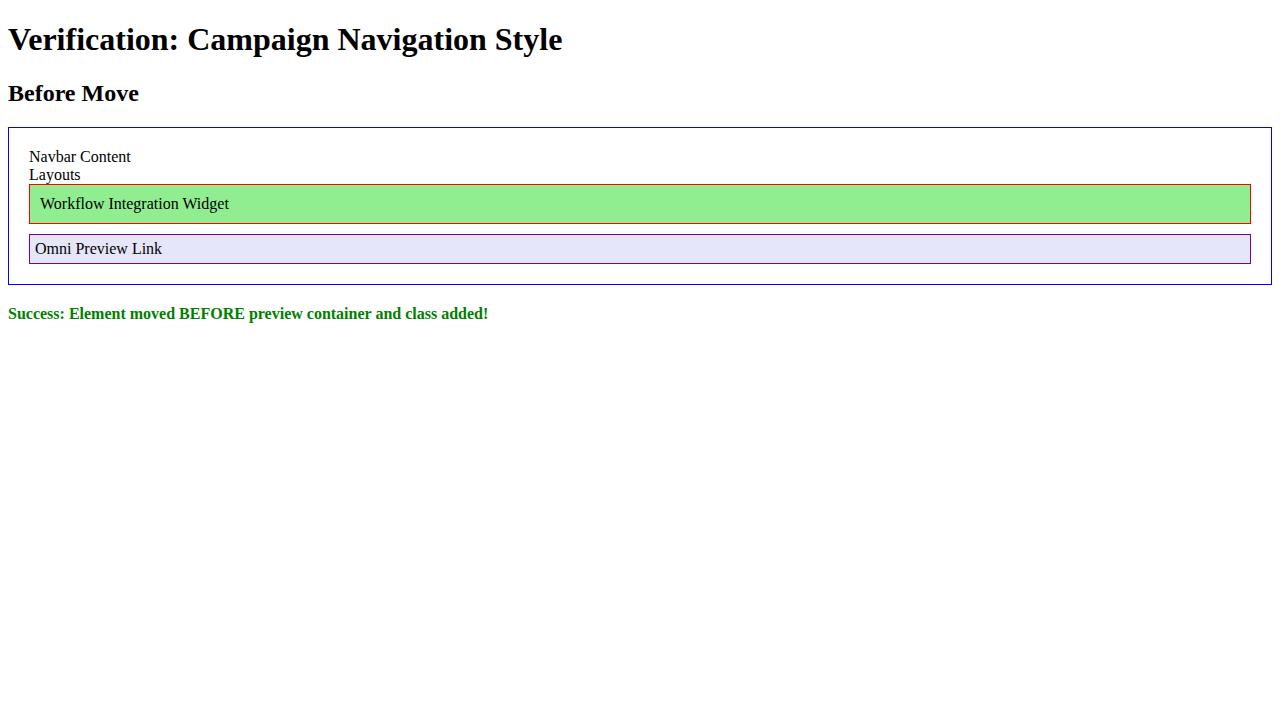
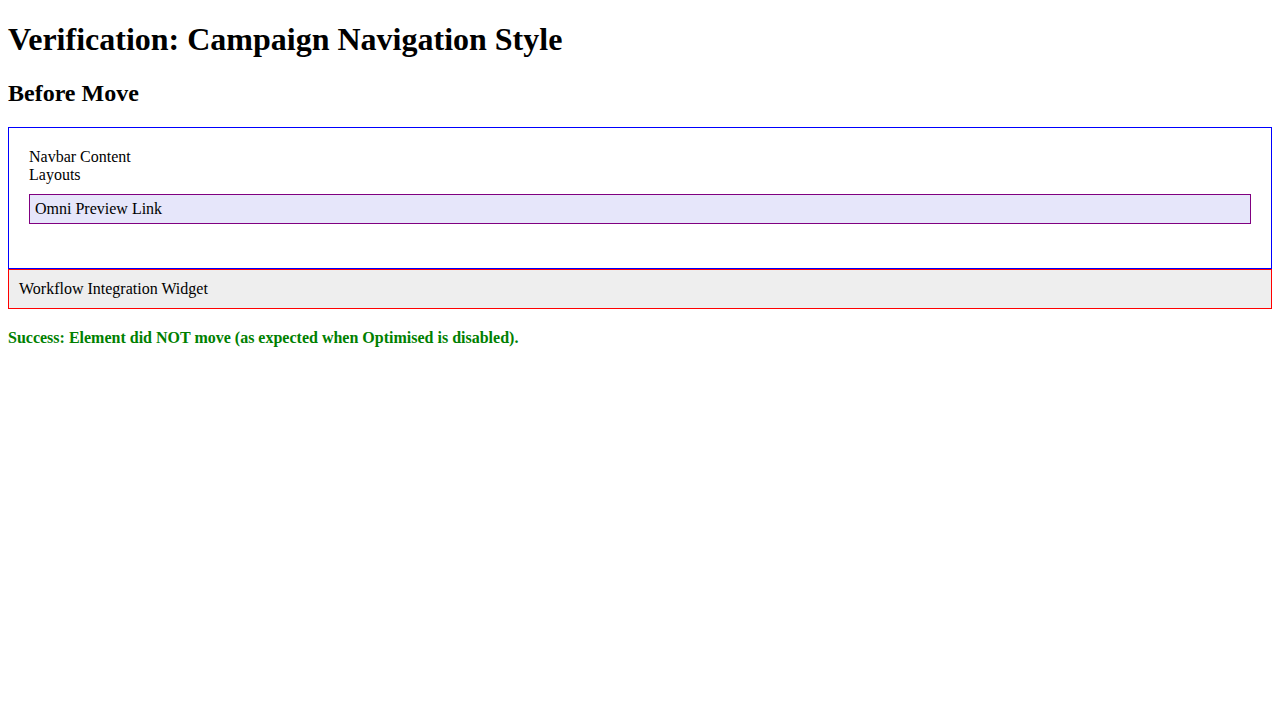
Fix Campaign Navigation Optimisation Logic

Changed region(s): [[0.0, 0.2444, 1.0, 0.4889]]

diff --git a/verification/verify_nav_style.html b/verification/verify_nav_style.html
@@ -105,24 +105,16 @@
             const rightSlotDiv = document.querySelector('div[slot="right"]');
             const previewLinkContainer = document.querySelector('.omni-navigation-preview-link-container');
 
-            if (rightSlotDiv.parentElement === navbarWrapper) {
-                // Verify position relative to previewLinkContainer
-                if (previewLinkContainer && rightSlotDiv.nextElementSibling === previewLinkContainer) {
-                    if (rightSlotDiv.classList.contains('ai-style-change-1')) {
-                        statusDiv.textContent = "Success: Element moved BEFORE preview container and class added!";
-                        statusDiv.style.color = "green";
-                    } else {
-                        statusDiv.textContent = "Partial Success: Element moved BEFORE but class missing.";
-                        statusDiv.style.color = "orange";
-                    }
-                } else {
-                    statusDiv.textContent = "Failure: Element moved but NOT before preview container (likely appended at end).";
-                    statusDiv.style.color = "red";
-                }
+            // With optimisedNewNavEnabled: false, we expect the element NOT to move.
+            // The original parent in this mock HTML is implicitly body or the container div.
+            // Let's check if it's NOT inside p2b-navbar-wrapper
+
+            if (rightSlotDiv.parentElement !== navbarWrapper) {
+                statusDiv.textContent = "Success: Element did NOT move (as expected when Optimised is disabled).";
+                statusDiv.style.color = "green";
             } else {
-                statusDiv.textContent = "Failure: Element did not move.";
+                statusDiv.textContent = "Failure: Element moved but Optimised setting is disabled.";
                 statusDiv.style.color = "red";
-                console.log('Parent:', rightSlotDiv.parentElement);
             }
 
         }, 500);

diff --git a/features/campaign.js b/features/campaign.js
@@ -179,7 +179,7 @@
     }
 
     function handleCampaignNavigationOptimisation() {
-        if (campaignNavStyle !== 'new') return;
+        if (campaignNavStyle !== 'new' || !optimisedNewNavEnabled) return;
 
         const navbarWrapper = document.querySelector('.p2b-navbar-wrapper');
         const rightSlotDiv = document.querySelector('div[slot="right"]');
